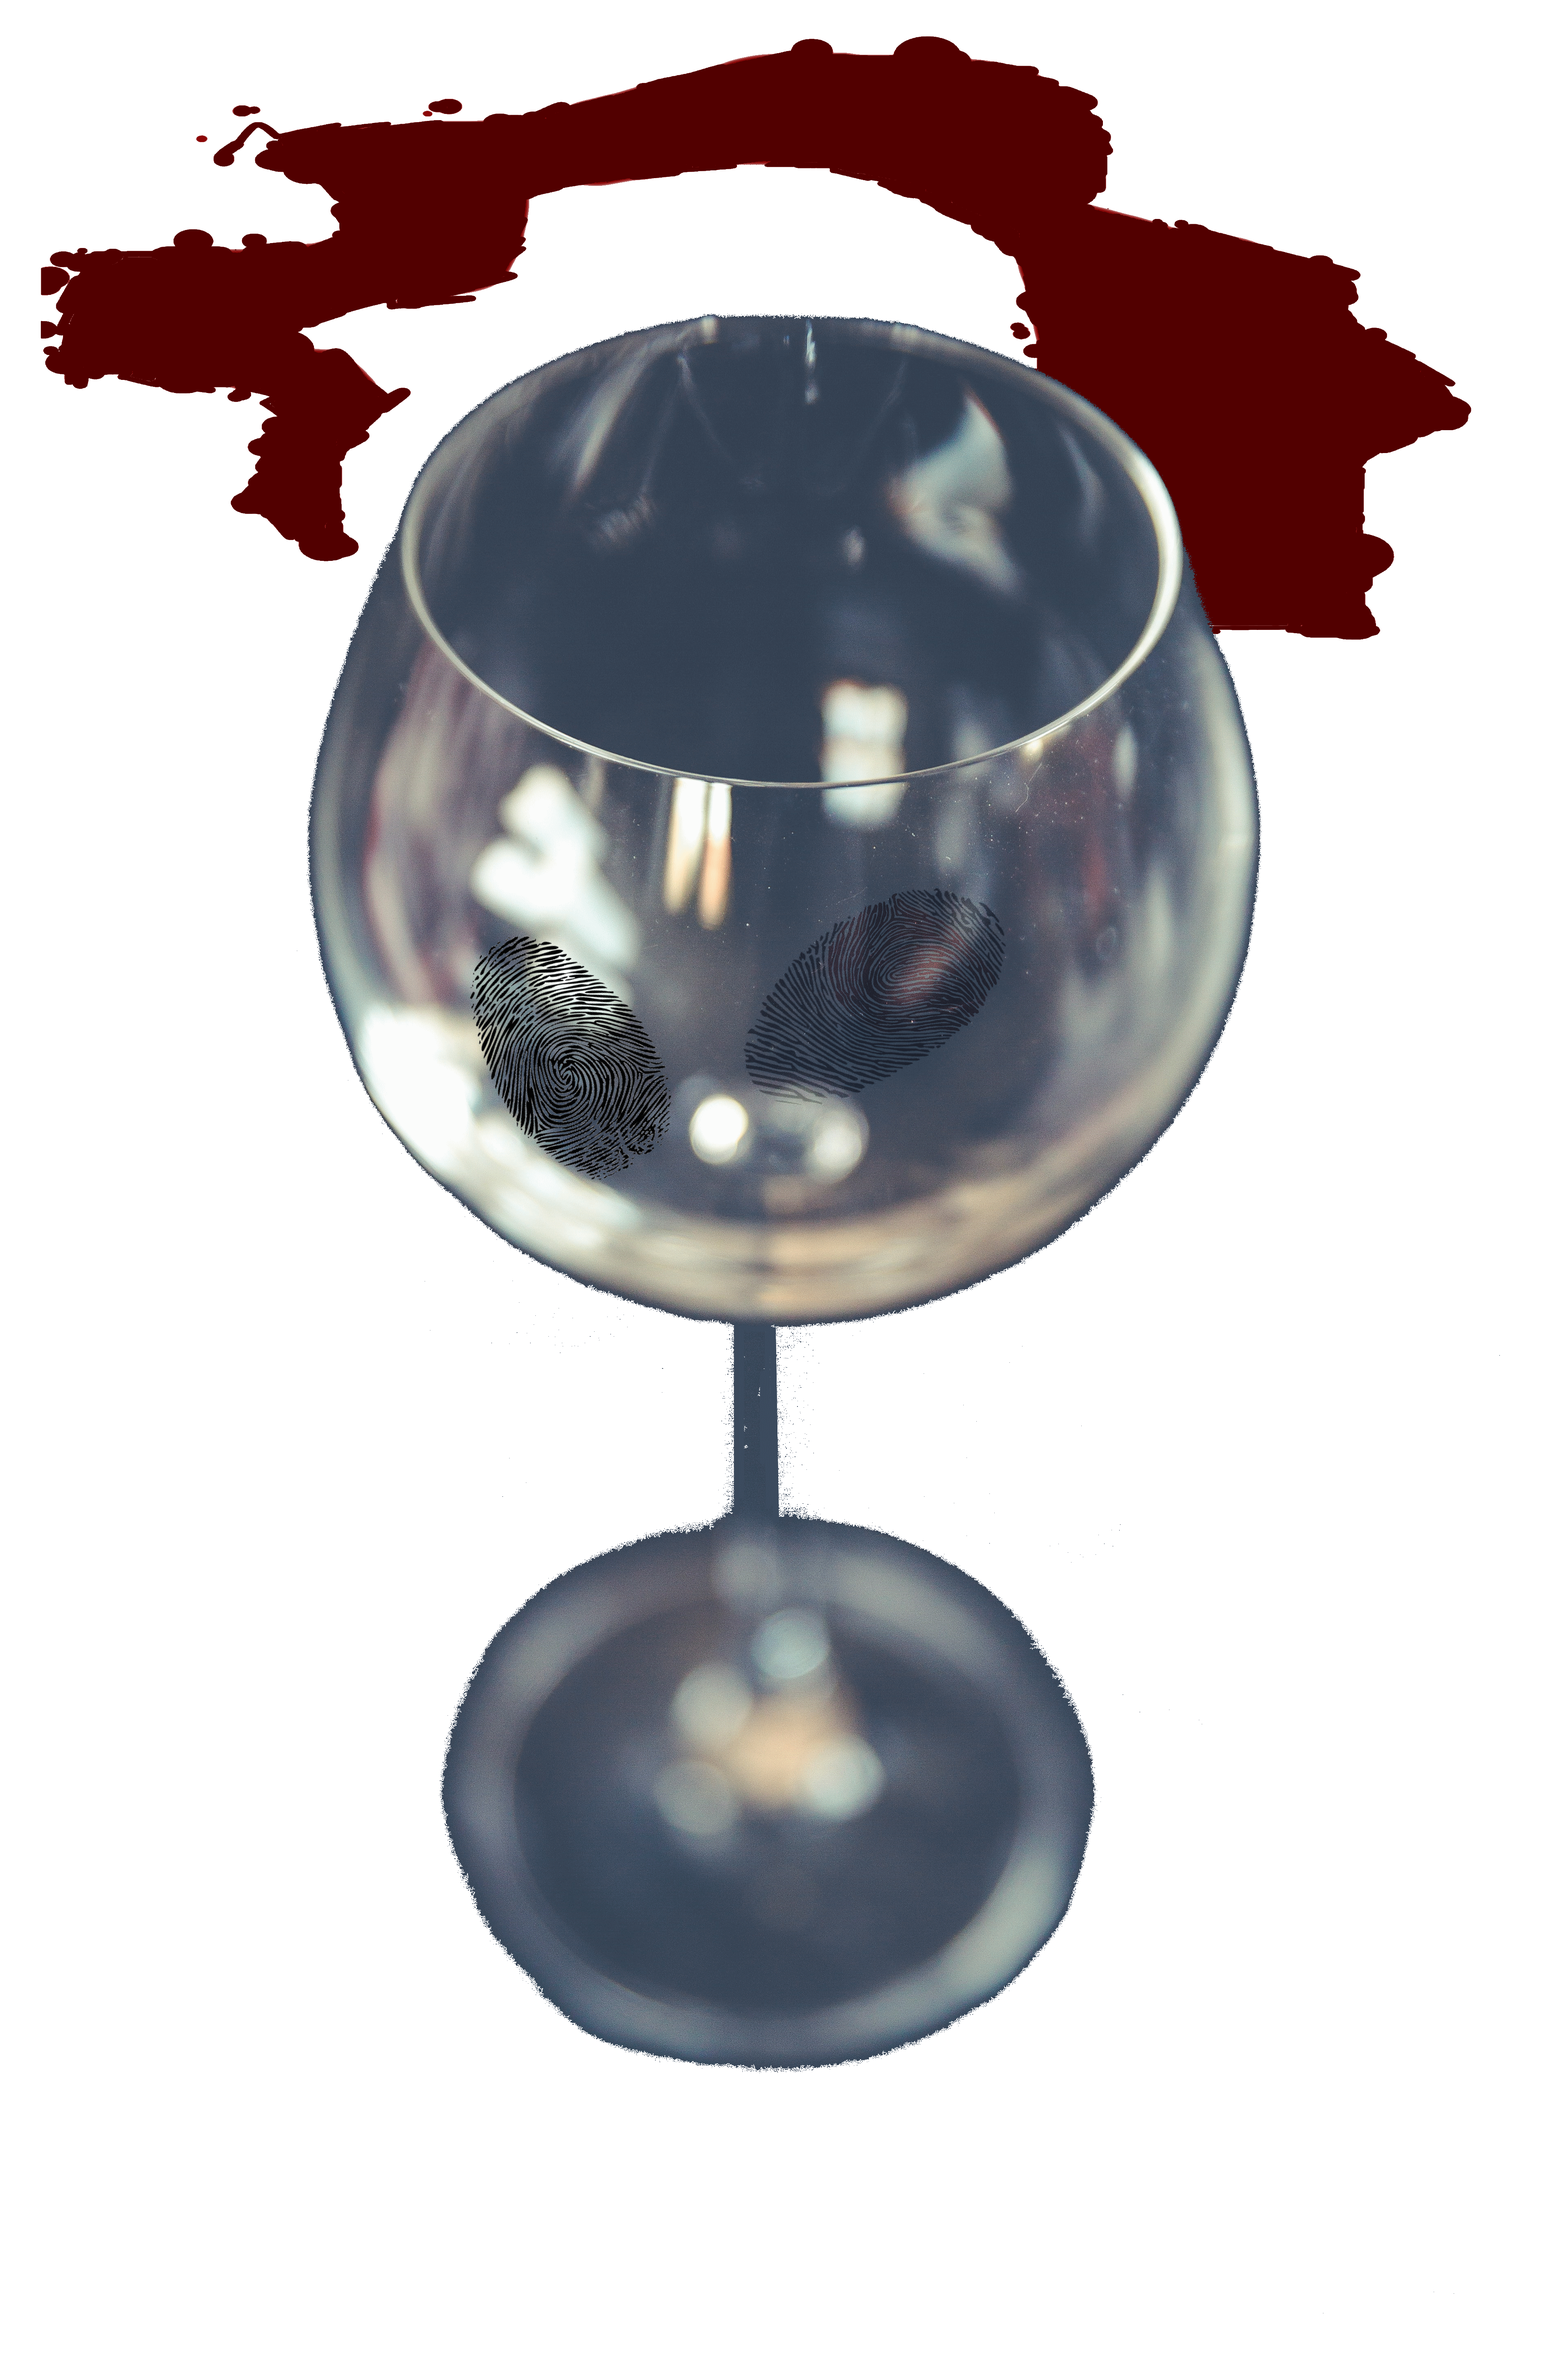
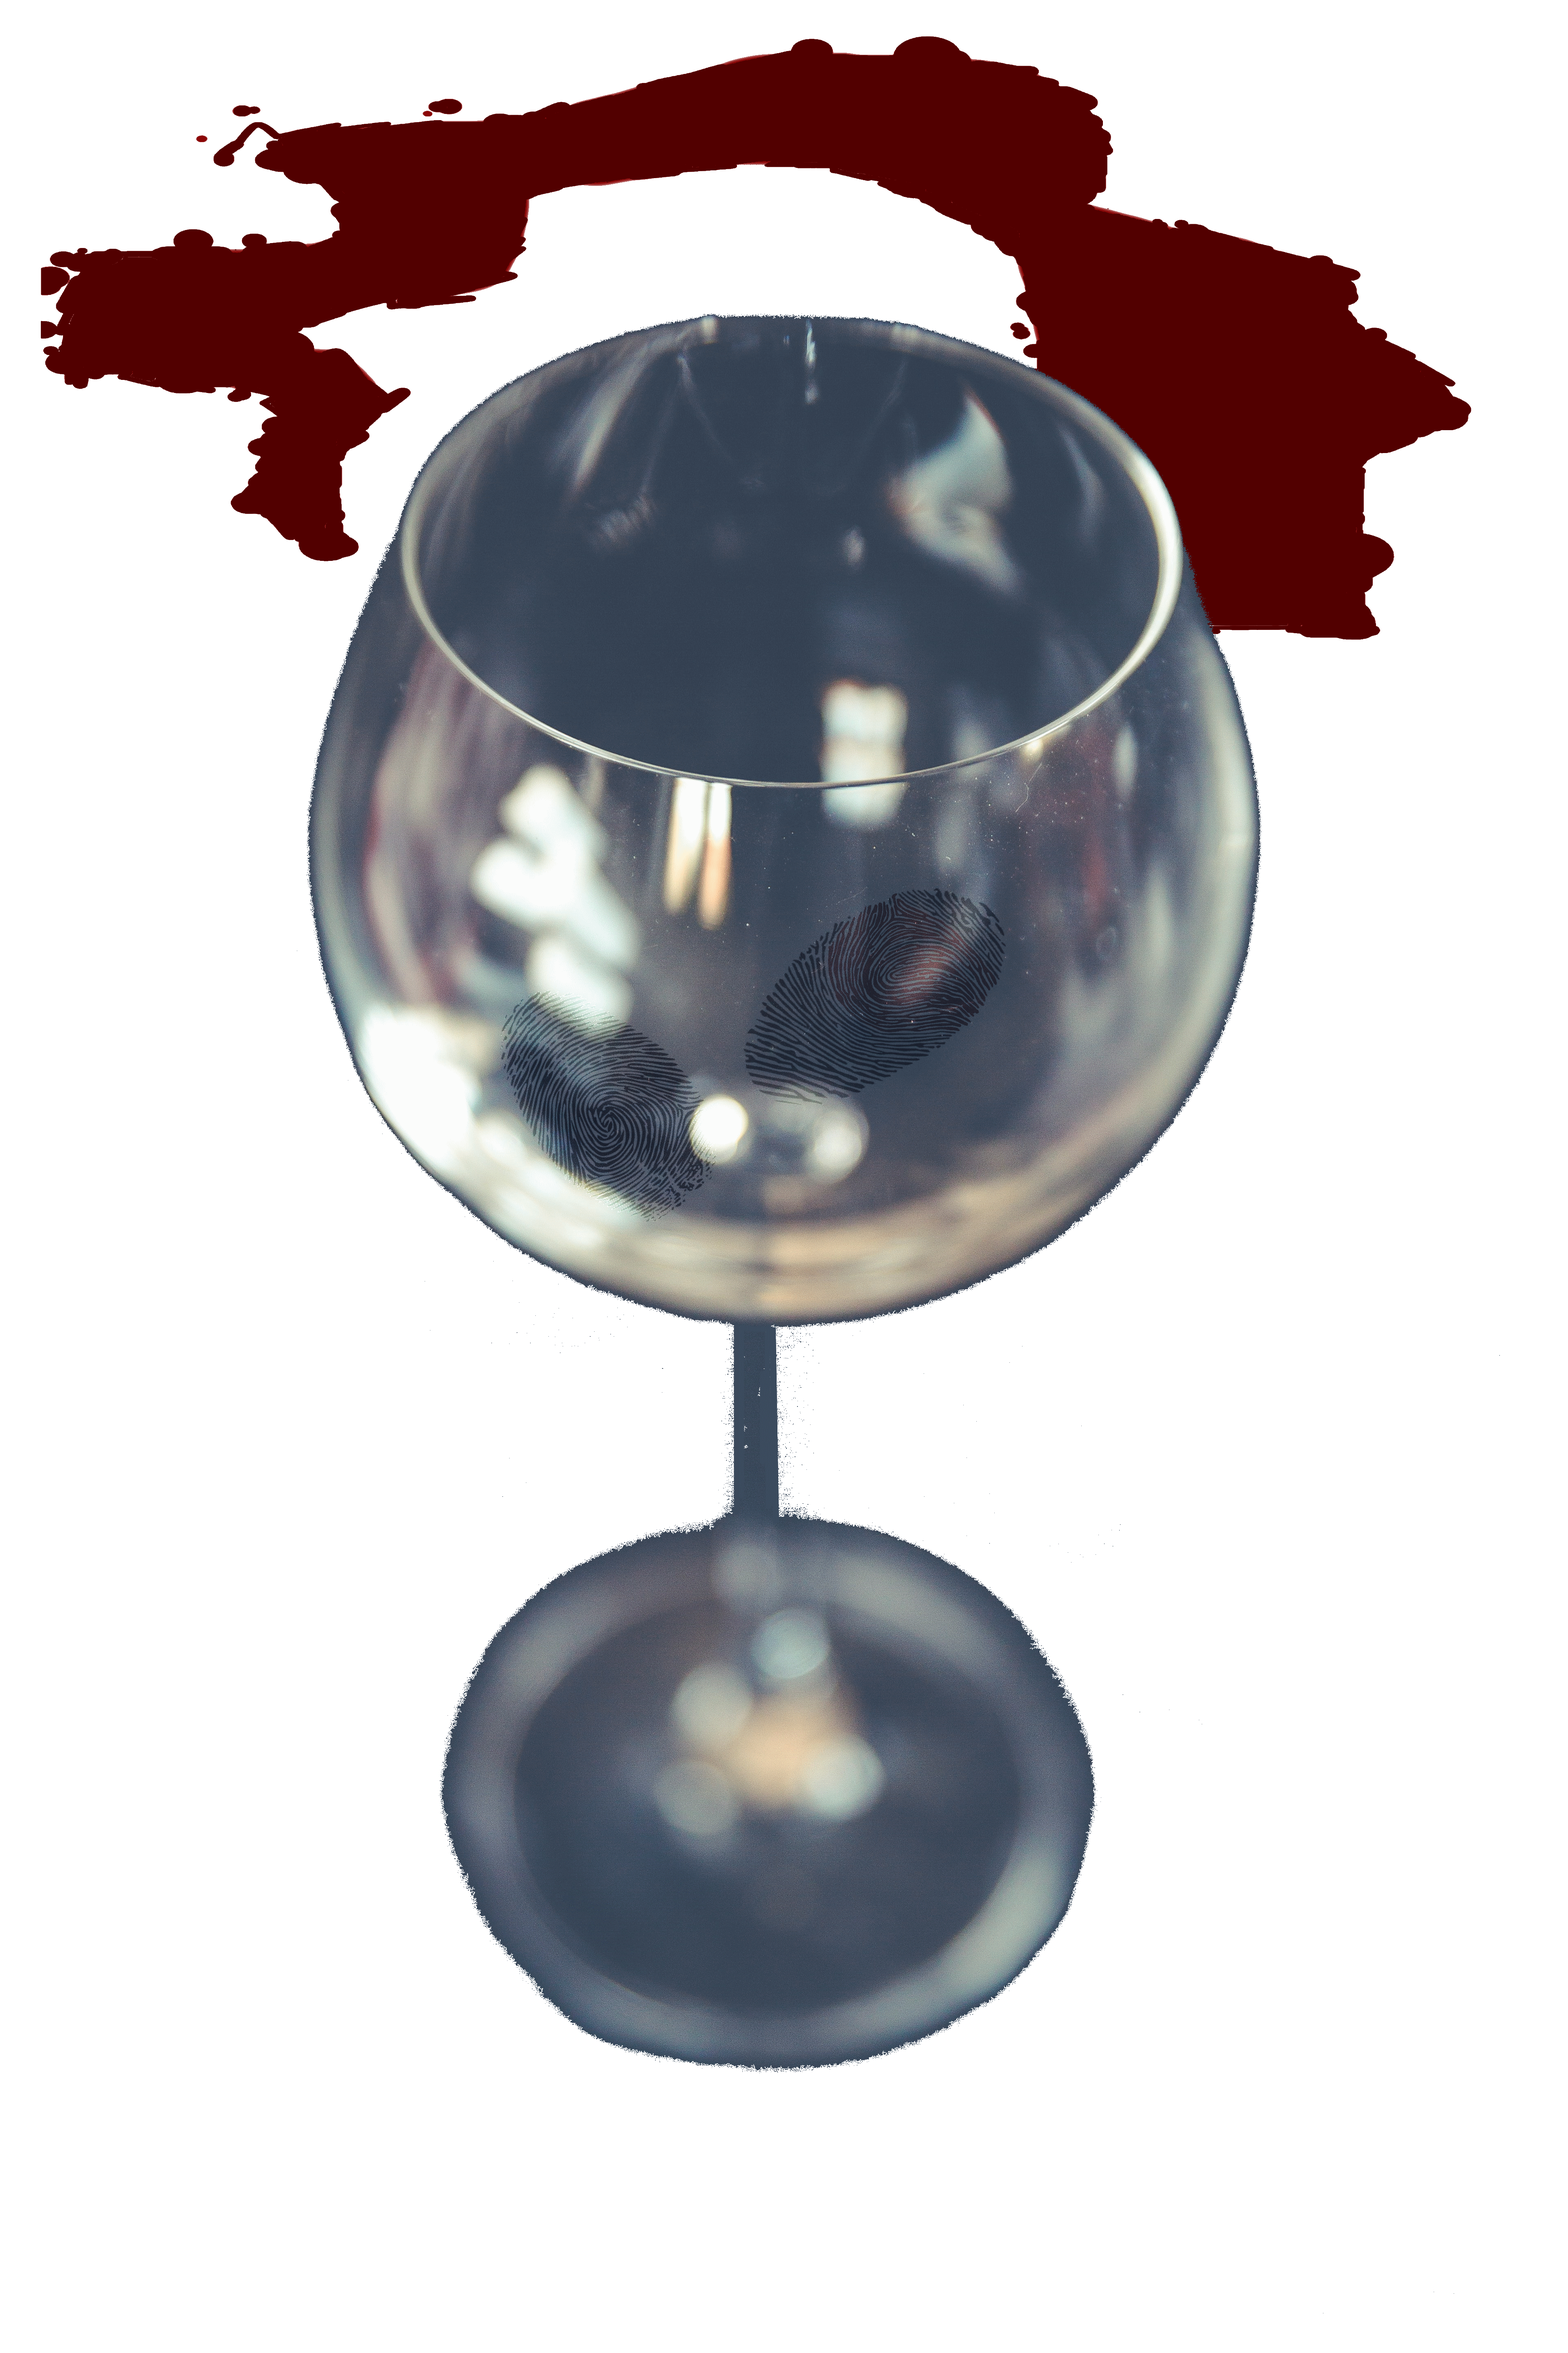
Add fingerprint images and make them appear when clicking

Changed region(s): [[0.2812, 0.375, 0.4688, 0.5312]]

diff --git a/src/main/java/nz/ac/auckland/se206/controllers/CrimeSceneController.java b/src/main/java/nz/ac/auckland/se206/controllers/CrimeSceneController.java
@@ -1,6 +1,7 @@
 package nz.ac.auckland.se206.controllers;
 
 import javafx.fxml.FXML;
+import javafx.scene.image.ImageView;
 import javafx.scene.input.MouseEvent;
 import javafx.scene.layout.Pane;
 import javafx.scene.shape.Rectangle;
@@ -12,6 +13,7 @@ public class CrimeSceneController {
   @FXML private Pane wineCluePane;
   @FXML private Pane notepadPane;
   @FXML private Rectangle rectFingerPrint1;
+  @FXML private ImageView fingerprint1, fingerprint2;
   private static boolean[] clueArray = new boolean[3]; // [guestList,glass,newspaper]
 
   public void initialize() {}
@@ -28,6 +30,12 @@ public class CrimeSceneController {
         break;
       case "glass":
         handleGlassInteraction();
+        break;
+      case "fingerprint1":
+        handleFingerPrintInteraction(1);
+        break;
+      case "fingerprint2":
+        handleFingerPrintInteraction(2);
         break;
       default:
         handleNewsInteraction();
@@ -47,6 +55,8 @@ public class CrimeSceneController {
     }
   }
 
+  private static boolean hasClickedFingerPrint = false;
+
   private void handleGlassInteraction() {
     // Handle interaction with the broken glass
     if (!clueArray[1]) { // if first time clicked
@@ -54,6 +64,9 @@ public class CrimeSceneController {
       clueArray[1] = true;
     }
     wineCluePane.setVisible(true);
+    if (hasClickedFingerPrint == true) {
+      notepadPane.setVisible(true);
+    }
   }
 
   private void handleNewsInteraction() {
@@ -77,4 +90,22 @@ public class CrimeSceneController {
 
     wineCluePane.setVisible(false);
   }
+
+  private boolean hasClickedFingerPrint1 = false;
+  private boolean hasClickedFingerPrint2 = false;
+
+  private void handleFingerPrintInteraction(int number) {
+    hasClickedFingerPrint = true;
+    notepadPane.setVisible(true);
+
+    if (number == 1) {
+      hasClickedFingerPrint1 = true;
+      fingerprint1.setVisible(true);
+    }
+    if (number == 2) {
+      fingerprint2.setVisible(true);
+    }
+  }
+
+  private void updateFingerPrint(int number) {}
 }
